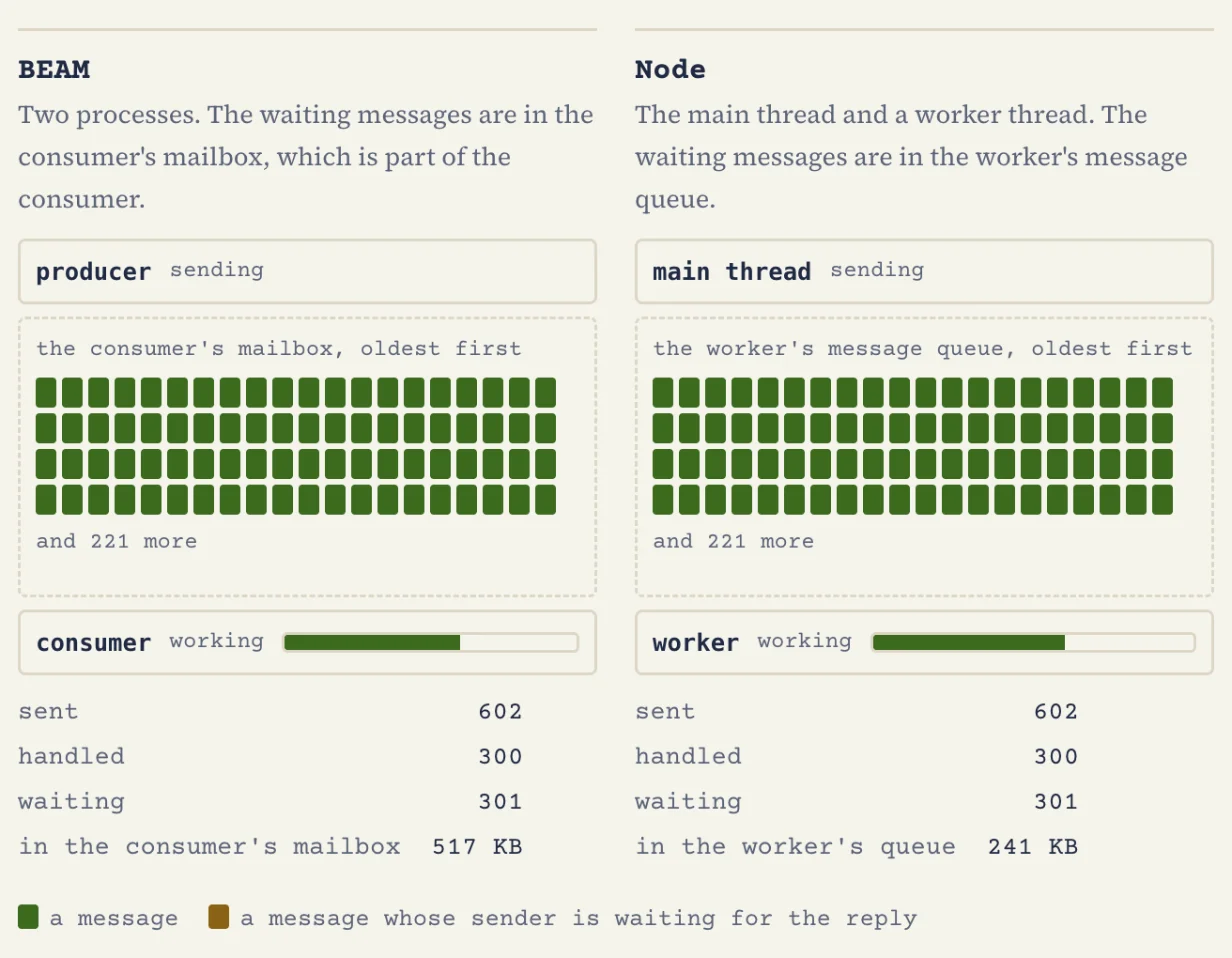
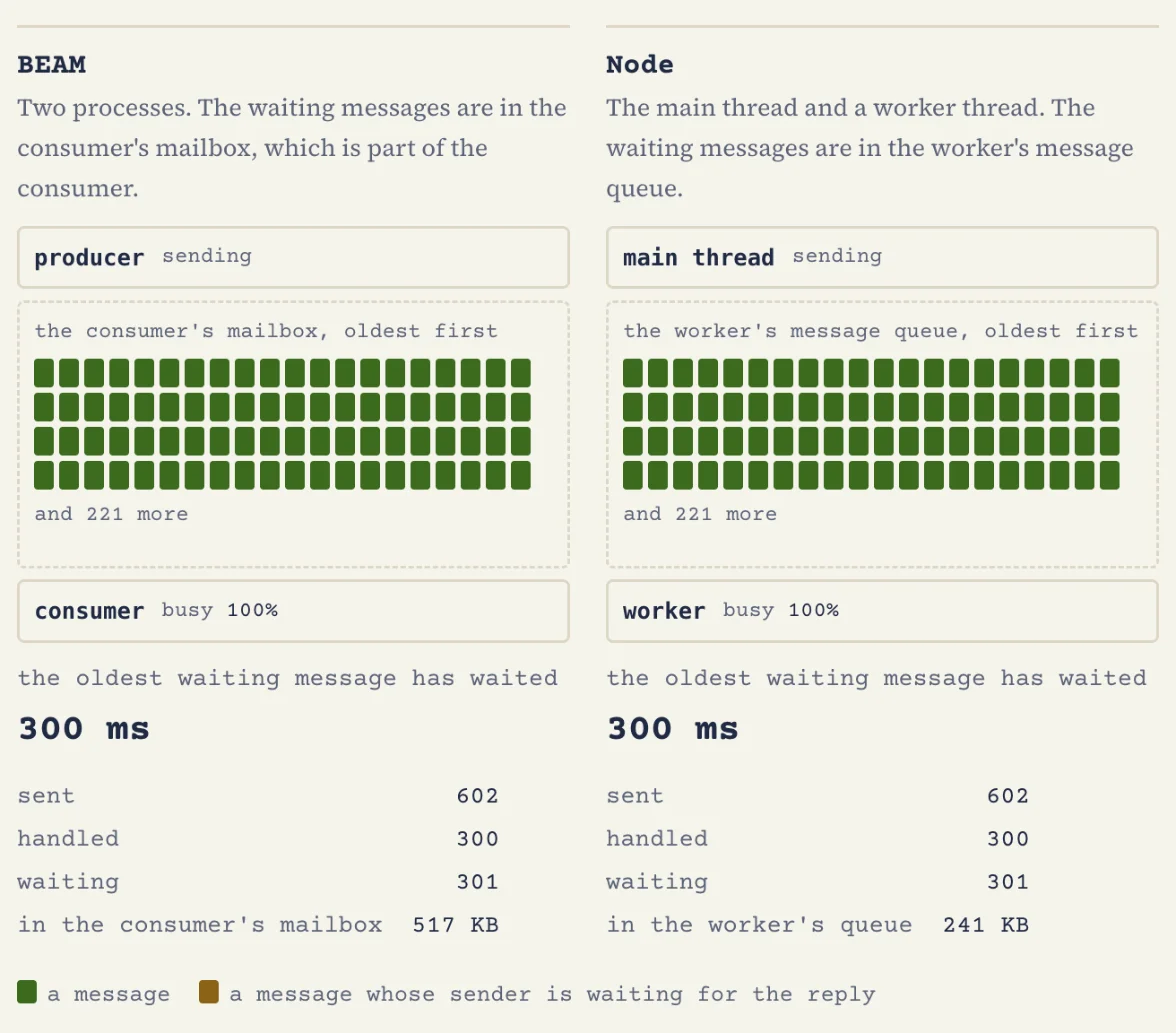
Lead page 4's widget with the oldest message's wait
The per-message progress bar and working/idle status flickered, and
the lesson was hard to find. Each side now leads with how long the
oldest waiting message has waited, the consumer shows how busy it's
been lately, and the prose points at the wait.

diff --git a/leaflets/beam-at-work/page-4/beam-mailbox.js b/leaflets/beam-at-work/page-4/beam-mailbox.js
@@ -5,6 +5,13 @@
 // up with waits in its queue; with "waits for each reply", the producer
 // sends one message and waits for the consumer's answer before the next.
 //
+// The headline figure is how long the oldest waiting message has waited:
+// about how long any message waits before the consumer gets to it. When the
+// producer outpaces the consumer it grows without limit; when the producer
+// waits for each reply it stays near zero. The consumer shows how busy it's
+// been over the last moment rather than each message's progress, which
+// would flicker at these speeds.
+//
 // It's a simulation, not a replay, and both sides follow the same rules,
 // because in the runs on the page they behaved the same. What differs is
 // where the waiting messages are (the BEAM consumer's mailbox, part of the
@@ -23,6 +30,7 @@ const WORKS = [1, 2, 4]; // ms the consumer spends on each message
 // Simulated milliseconds per real millisecond
 const SPEEDS = { "1/100": 0.01, "1/25": 0.04, "1/5": 0.2 };
 const STEP = 5; // simulated ms per press of Step
+const BUSY_WINDOW = 200; // simulated ms the consumer's busy figure averages over
 // Measured memory per waiting message: queue-memory.exs (the consumer's
 // process memory) and queue-memory.mjs (the Node process's RSS, 770 to 918
 // bytes over five sizes and two runs)
@@ -52,6 +60,7 @@ const GAP = 3;
 const ROWS = 4; // of messages shown; the rest are counted
 
 const number = (n) => n.toLocaleString("en-US");
+const duration = (ms) => (ms < 1000 ? `${number(Math.round(ms))} ms` : `${(ms / 1000).toFixed(2)} s`);
 const size = (bytes) =>
   bytes >= 1e6 ? `${(bytes / 1e6).toLocaleString("en-US", { minimumFractionDigits: 1, maximumFractionDigits: 1 })} MB`
   : bytes >= 1e3 ? `${number(Math.round(bytes / 1e3))} KB`
@@ -176,7 +185,7 @@ document.head.insertAdjacentHTML("beforeend", `<style>
     beam-mailbox .side {
       display: grid;
       grid-template-rows: subgrid;
-      grid-row: span 4;
+      grid-row: span 5;
       align-content: start;
     }
   }
@@ -233,23 +242,26 @@ document.head.insertAdjacentHTML("beforeend", `<style>
     color: var(--brass);
     font-weight: 700;
   }
-  /* The message the consumer is working on, and how far along it is */
-  beam-mailbox .work {
-    position: relative;
-    flex: 1;
-    height: .7rem;
-    border: 1.5px solid var(--line);
-    border-radius: 3px;
-    overflow: hidden;
+  beam-mailbox .end output {
+    display: inline-block;
+    min-width: 4ch;
+    text-align: right;
+    font-variant-numeric: tabular-nums;
+    color: var(--ink);
   }
-  beam-mailbox .work i {
-    position: absolute;
-    inset: 0 auto 0 0;
-    width: calc(var(--done, 0) * 100%);
-    background: var(--code-string);
+  /* The headline: how long the oldest waiting message has waited */
+  beam-mailbox .age {
+    display: grid;
+    margin: .6rem 0 0;
+    font-family: var(--type);
+    font-size: .85rem;
+    color: var(--muted);
   }
-  beam-mailbox .work.reply i {
-    background: var(--brass);
+  beam-mailbox .age output {
+    font-size: 1.3rem;
+    font-weight: 700;
+    font-variant-numeric: tabular-nums;
+    color: var(--ink);
   }
   beam-mailbox .queue {
     padding: .4rem .5rem;
@@ -357,10 +369,12 @@ class Pair {
     this.t = 0;
     this.sent = 0;
     this.handled = 0;
-    this.queue = []; // true for a message that wants a reply
+    this.queue = []; // { at: when it was sent, reply: whether it wants one }
     this.head = 0; // the oldest waiting message's index in queue
     this.current = null; // { start, reply } while the consumer works
     this.awaiting = false;
+    this.busy = 0; // ms the consumer has spent working, in all
+    this.history = [[0, 0]]; // [t, busy] at the end of each advance, recent ones
     this.rebase();
   }
 
@@ -381,6 +395,7 @@ class Pair {
       const finish = this.current ? this.current.start + work : Infinity;
       const next = Math.min(send, finish);
       if (next > to) break;
+      if (this.current) this.busy += next - this.t;
       this.t = next;
       if (finish <= send) {
         if (this.current.reply) this.awaiting = false;
@@ -388,13 +403,13 @@ class Pair {
         this.handled++;
       } else {
         const reply = mode === "call";
-        this.queue.push(reply);
+        this.queue.push({ at: this.t, reply });
         this.sent++;
         this.due++;
         if (reply) this.awaiting = true;
       }
       if (!this.current && this.waiting) {
-        this.current = { start: this.t, reply: this.queue[this.head++] };
+        this.current = { start: this.t, reply: this.queue[this.head++].reply };
         // Let go of messages already taken, now and then
         if (this.head > 4096) {
           this.queue = this.queue.slice(this.head);
@@ -402,7 +417,21 @@ class Pair {
         }
       }
     }
+    if (this.current) this.busy += to - this.t;
     this.t = to;
+    this.history.push([to, this.busy]);
+    while (this.history.length > 2 && this.history[1][0] <= to - BUSY_WINDOW) this.history.shift();
+  }
+
+  // How long the oldest waiting message has waited
+  get oldestAge() {
+    return this.waiting ? this.t - this.queue[this.head].at : 0;
+  }
+
+  // The share of the last moment the consumer spent working
+  get busyShare() {
+    const [t0, busy0] = this.history[0];
+    return this.t > t0 ? (this.busy - busy0) / (this.t - t0) : 0;
   }
 
   // The oldest n waiting messages, oldest first
@@ -436,10 +465,10 @@ customElements.define("beam-mailbox", class extends HTMLElement {
             </div>
             <div class="end consumer">
               <span class="name">${s.consumer}</span>
-              <span class="states"><span data-state="working">working</span><span data-state="idle">idle</span></span>
-              <span class="work"><i></i></span>
+              <span>busy <output class="busy"></output></span>
             </div>
           </div>
+          <p class="age"><span>the oldest waiting message has waited</span><output class="oldest"></output></p>
           <table class="readout" aria-label="${s.title}: messages so far">
             <tbody>
               <tr><th scope="row">sent</th><td class="sent"></td></tr>
@@ -464,7 +493,7 @@ customElements.define("beam-mailbox", class extends HTMLElement {
         <fieldset class="choices" data-setting="work"><legend>Each message takes</legend>${radios("work", WORKS.map(String), "2", (v) => `${v} ms`)}</fieldset>
         <fieldset class="choices" data-setting="speed"><legend>Speed</legend>${radios("speed", Object.keys(SPEEDS), "1/25")}</fieldset>
       </div>
-      <p class="note">A simulation of the runs above, slowed down to watch: at 1/25 a millisecond takes 25. Both sides follow the same rules. The memory figures use what one waiting message cost in each runtime (<a href="queue-memory.exs">queue-memory.exs</a>, <a href="queue-memory.mjs">queue-memory.mjs</a>).</p>
+      <p class="note">A simulation of the runs above, slowed down to watch: at 1/25 a millisecond takes 25. Both sides follow the same rules. Watch how long the oldest waiting message has waited. That's about how long every message waits before the consumer gets to it. The memory figures use what one waiting message cost in each runtime (<a href="queue-memory.exs">queue-memory.exs</a>, <a href="queue-memory.mjs">queue-memory.mjs</a>).</p>
       <div class="sides">${side("beam")}${side("node")}</div>
       <p class="key" aria-hidden="true">
         <span style="--swatch: var(--code-string)">a message</span>
@@ -571,7 +600,6 @@ customElements.define("beam-mailbox", class extends HTMLElement {
 
   render() {
     if (!this.sides[0].pair) return;
-    const { work } = this.settings;
     const t = this.sides[0].pair.t;
     const clock = `${(t / 1000).toFixed(3)} s`;
     const out = this.$(".clock output");
@@ -587,21 +615,19 @@ customElements.define("beam-mailbox", class extends HTMLElement {
       set(".handled", number(pair.handled));
       set(".waiting", number(pair.waiting));
       set(".memory", size(pair.waiting * s.bytes));
+      set(".oldest", pair.waiting ? duration(pair.oldestAge) : "none");
+      set(".busy", `${Math.round(pair.busyShare * 100)}%`);
 
       const state = (end, name) => el.querySelectorAll(`.${end} [data-state]`).forEach((span) => span.classList.toggle("on", span.dataset.state === name));
       state("producer", pair.awaiting ? "waiting" : "sending");
-      state("consumer", pair.current ? "working" : "idle");
       el.querySelector(".producer").classList.toggle("held", pair.awaiting);
-      const bar = el.querySelector(".work");
-      bar.classList.toggle("reply", !!pair.current?.reply);
-      bar.style.setProperty("--done", pair.current ? Math.min(1, (pair.t - pair.current.start) / work) : 0);
 
       // The oldest first, in reading order
       const chips = s.chips.children;
       const shown = pair.oldest(chips.length);
       for (let i = 0; i < chips.length; i++) {
         const message = shown[i];
-        chips[i].className = message === undefined ? "chip" : message ? "chip on reply" : "chip on";
+        chips[i].className = !message ? "chip" : message.reply ? "chip on reply" : "chip on";
       }
       const hidden = pair.waiting - shown.length;
       // The message the producer is waiting on is the newest, so it's

diff --git a/leaflets/beam-at-work/page-4/index.md b/leaflets/beam-at-work/page-4/index.md
@@ -228,7 +228,9 @@ So messages work much the same in both. The difference is how much they're used.
 
 Here's the slow consumer again, in both runtimes side by side and slowed down. It's a simulation with the settings from the runs above: the producer sends 1,000 messages a second, and each one takes the consumer 2 ms. Both sides follow the same rules, because in the runs they behaved the same. You can change how fast messages come in and how long each one takes, and switch the producer between sending and moving on and waiting for each reply.
 
-Let a queue build up, then switch to waiting for each reply. The producer's next message goes on the end of the queue like any other, so its reply only comes once everything ahead of it has been handled. Waiting slows the producer down, but it doesn't clear a backlog that's already there.
+The number to watch is how long the oldest waiting message has waited, because that's about how long every message waits before the consumer gets to it. With the producer sending 1,000 a second and moving on, that wait grows by half a second every second, for as long as it keeps up: each message waits longer than the one before. Have the producer wait for each reply, or send 250 a second, and it stays at nothing.
+
+Let a queue build up, then switch to waiting for each reply. The producer's next message goes on the end of the queue like any other, so its reply only comes once everything ahead of it has been handled. Waiting slows the producer down, but it doesn't clear a backlog that's already there, and the oldest message's wait keeps climbing until the backlog is gone.
 
 The memory figures come from sending the slow consumer's message to a process, or a worker, that never reads it, and measuring how much bigger that made things ([queue-memory.exs](queue-memory.exs), [queue-memory.mjs](queue-memory.mjs)):
 
@@ -250,7 +252,7 @@ They're different measures. The BEAM's is the consumer process's own memory, and
 
 <beam-mailbox>
 
-![The simulation 601 ms in, with the producer sending and moving on, side by side. On the BEAM side the producer is sending, and the consumer's mailbox is full of waiting messages, four rows of them and 221 more. The consumer is partway through a message. Sent 602, handled 300, waiting 301, and 517 KB in the consumer's mailbox. The Node side shows the same: the main thread sending, the worker's message queue just as full, the worker partway through a message, the same counts, and 241 KB in the worker's queue.](beam-mailbox.webp)
+![The simulation 601 ms in, with the producer sending and moving on, side by side. On the BEAM side the producer is sending, and the consumer's mailbox is full of waiting messages, four rows of them and 221 more. The consumer is busy 100% of the time, and the oldest waiting message has waited 300 ms. Sent 602, handled 300, waiting 301, and 517 KB in the consumer's mailbox. The Node side shows the same: the main thread sending, the worker's message queue just as full, the worker busy 100%, the oldest message 300 ms old, the same counts, and 241 KB in the worker's queue.](beam-mailbox.webp)
 
 *The live version of this needs JavaScript. In it, you can watch a producer and a slow consumer in the BEAM and in Node side by side, and change how fast messages are sent, how long each takes, and whether the producer waits for each reply.*
 
